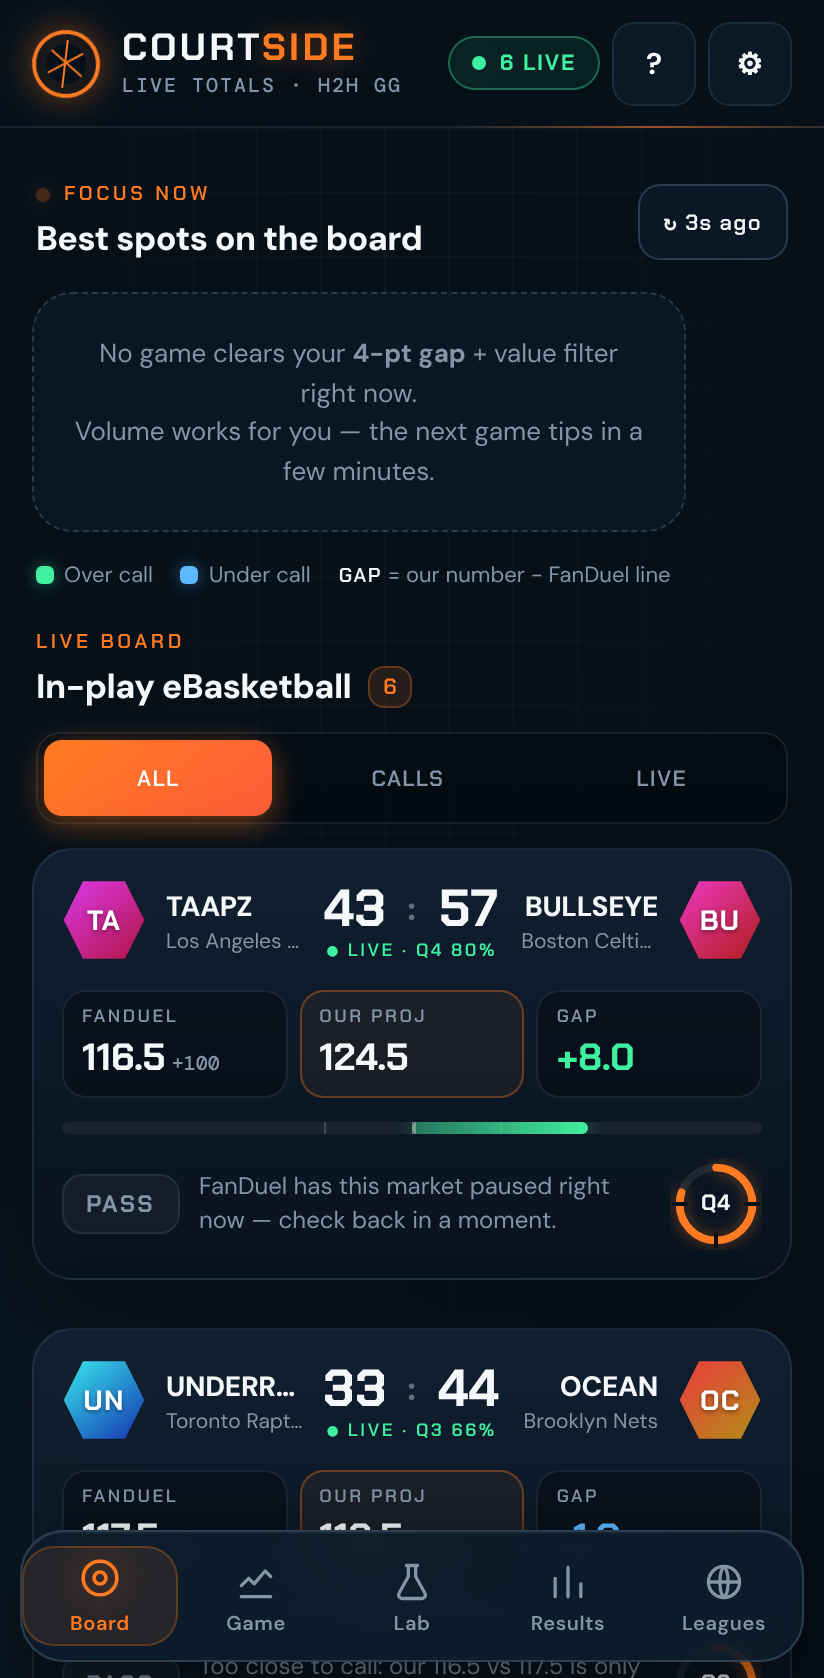
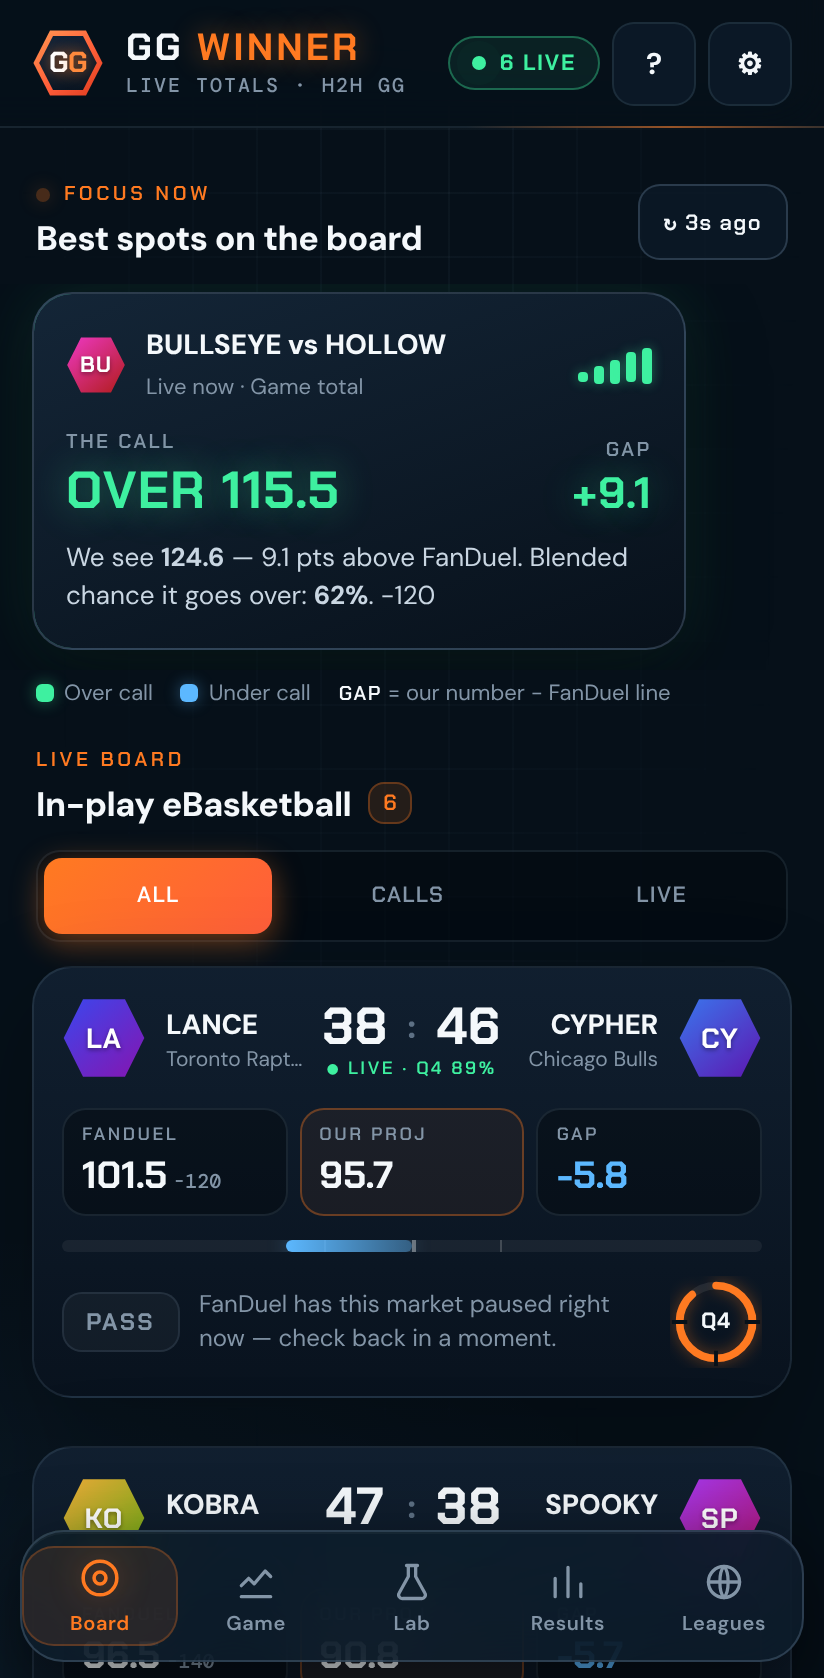
Rebrand to GG Winner
New name, GG hex logo and app icons (distinct from the CourtSide app),
manifest/install names, refreshed install-sheet screenshots, and the
Netlify site renamed to gg-winner.netlify.app. The Blobs store keeps its
original name so tracked games and graded results carry over.

Claude-Session: https://claude.ai/code/session_01ARni8sSaepoxgh9dy5PCBC

diff --git a/public/index.html b/public/index.html
@@ -4,12 +4,12 @@
   <meta charset="UTF-8" />
   <meta name="viewport" content="width=device-width, initial-scale=1, viewport-fit=cover" />
   <meta name="theme-color" content="#061019" />
-  <meta name="description" content="CourtSide Pace — live FanDuel eBasketball (H2H GG League) projections: game, 1st half, quarter and team totals vs the live line, in plain English." />
+  <meta name="description" content="GG Winner — live FanDuel eBasketball (H2H GG League) projections: game, 1st half, quarter and team totals vs the live line, in plain English." />
   <meta name="apple-mobile-web-app-capable" content="yes" />
   <meta name="mobile-web-app-capable" content="yes" />
   <meta name="apple-mobile-web-app-status-bar-style" content="black-translucent" />
-  <meta name="apple-mobile-web-app-title" content="CourtSide" />
-  <title>CourtSide Pace</title>
+  <meta name="apple-mobile-web-app-title" content="GG Winner" />
+  <title>GG Winner</title>
   <link rel="manifest" href="/manifest.webmanifest" />
   <link rel="icon" type="image/png" sizes="192x192" href="/icons/icon-192.png" />
   <link rel="apple-touch-icon" href="/icons/apple-touch-icon.png" />
@@ -23,9 +23,9 @@
   <div class="shell">
     <header class="topbar">
       <div class="brand-wrap">
-        <div class="ball-mark" aria-hidden="true"><i></i></div>
+        <div class="gg-mark" aria-hidden="true"><span>G<b>G</b></span></div>
         <div class="brand-text">
-          <div class="brand">COURT<span>SIDE</span></div>
+          <div class="brand">GG <span>WINNER</span></div>
           <div class="subbrand">Live Totals · H2H GG</div>
         </div>
       </div>
@@ -50,8 +50,8 @@
       <!-- BOARD -->
       <section class="view" id="view-board" data-view="board">
         <div id="installCard" class="install-card hidden">
-          <div class="ball-mark"><i></i></div>
-          <div class="ic-text"><b>Install CourtSide on your phone</b><span>Full-screen, one tap from your home screen, live numbers every few seconds.</span></div>
+          <div class="gg-mark"><span>G<b>G</b></span></div>
+          <div class="ic-text"><b>Install GG Winner on your phone</b><span>Full-screen, one tap from your home screen, live numbers every few seconds.</span></div>
           <div class="ic-actions"><button type="button" class="ghost-btn" id="installLater">Later</button><button type="button" class="cta" id="installGo">Install</button></div>
         </div>
         <div class="hud-head">
@@ -97,7 +97,7 @@
       <!-- GAME -->
       <section class="view hidden" id="view-game" data-view="game">
         <div id="gameEmpty" class="empty-state">
-          <div class="empty-orb"><div class="ball-mark big"><i></i></div></div>
+          <div class="empty-orb"><div class="gg-mark big"><span>G<b>G</b></span></div></div>
           <h2>Pick a game from the board</h2>
           <p>Tap any live match to see our projection for the game, 1st half, current quarter and team totals against FanDuel’s live lines.</p>
           <button class="cta" type="button" data-view-go="board">Open the board</button>
@@ -232,8 +232,8 @@
       <div class="ob-slides" id="obSlides">
         <section class="ob active">
           <div class="ob-art"><span class="ob-num">122.9</span><span class="ob-vs">vs</span><span class="ob-num dim">113.5</span></div>
-          <h3>We build our own number</h3>
-          <p>From 3 weeks of official H2H results: each gamer’s scoring, their team, head-to-head history — then we update it live as points go up.</p>
+          <h3>Welcome to GG Winner</h3>
+          <p>We build our own number from 3 weeks of official H2H results — each gamer’s scoring, their team, head-to-head history — then update it live as points go up.</p>
         </section>
         <section class="ob">
           <div class="ob-art"><span class="pill-big over">GAP +9.4</span></div>

diff --git a/public/styles.css b/public/styles.css
@@ -1,5 +1,5 @@
 /* ==========================================================================
-   CourtSide design system — gamer HUD edition
+   GG Winner — gamer HUD on the shared CourtSide design tokens
    Navy + court orange, DM Sans / DM Mono, Chakra Petch for HUD numbers.
    ========================================================================== */
 :root {
@@ -94,6 +94,14 @@ button { cursor: pointer; }
 .ball-mark::before, .ball-mark::after { content: ""; position: absolute; inset: 5px 14px; border-left: 1.5px solid var(--accent); transform: rotate(35deg); }
 .ball-mark::after { transform: rotate(-35deg); }
 .ball-mark i { position: absolute; left: 3px; right: 3px; top: 50%; border-top: 1.5px solid var(--accent); }
+.gg-mark { --s: 36px; width: var(--s); height: var(--s); flex: 0 0 var(--s); position: relative; display: grid; place-items: center;
+  clip-path: polygon(25% 5%, 75% 5%, 98% 50%, 75% 95%, 25% 95%, 2% 50%); background: linear-gradient(140deg, #ff9c55, #ff5e3a 55%, #d9361b);
+  filter: drop-shadow(0 0 10px var(--accent-glow)); }
+.gg-mark::before { content: ""; position: absolute; inset: 3px; clip-path: inherit; background: linear-gradient(160deg, #10233a, #08131e); }
+.gg-mark span { position: relative; font: 700 calc(var(--s) * .4)/1 var(--hud); letter-spacing: -.02em; color: #fff; text-shadow: 0 0 8px rgba(255, 122, 33, .8); }
+.gg-mark span b { color: #ff8a3d; }
+.gg-mark.big { --s: 72px; animation: float 4s ease-in-out infinite; }
+.gg-mark.big::before { inset: 5px; }
 .ball-mark.big { width: 64px; height: 64px; flex-basis: 64px; border-width: 3px; }
 .ball-mark.big::before, .ball-mark.big::after { inset: 9px 26px; border-left-width: 2.5px; }
 .ball-mark.big i { border-top-width: 2.5px; left: 5px; right: 5px; }
@@ -498,7 +506,7 @@ input[type=range]::-moz-range-thumb { width: 16px; height: 16px; border-radius: 
 }
 
 /* ---------- Android / Pixel ---------- */
-.install-card { display: grid; grid-template-columns: 34px 1fr; gap: 10px 12px; align-items: center; margin: 12px 0 4px; padding: 14px; border-radius: var(--r-lg);
+.install-card { display: grid; grid-template-columns: 36px 1fr; gap: 10px 12px; align-items: center; margin: 12px 0 4px; padding: 14px; border-radius: var(--r-lg);
   background: radial-gradient(320px 120px at 90% 0%, rgba(255, 122, 33, .22), transparent 70%), linear-gradient(160deg, rgba(20, 38, 56, .98), rgba(8, 17, 27, .98));
   border: 1px solid rgba(255, 122, 33, .35); box-shadow: 0 0 28px rgba(255, 122, 33, .12); animation: cardIn .5s var(--ease) both; }
 .install-card .ic-text b { display: block; font-size: 14px; }

diff --git a/public/app.js b/public/app.js
@@ -1,4 +1,4 @@
-/* CourtSide Pace — FanDuel eBasketball live totals (H2H GG League 4x5) */
+/* GG Winner — FanDuel eBasketball live totals (H2H GG League 4x5) */
 (() => {
   const $ = (id) => document.getElementById(id);
   const esc = (s) => String(s ?? '').replace(/[&<>"']/g, (c) => ({ '&': '&amp;', '<': '&lt;', '>': '&gt;', '"': '&quot;', "'": '&#39;' }[c]));
@@ -792,7 +792,7 @@
     window.addEventListener('appinstalled', () => {
       $('installCard').classList.add('hidden');
       $('installBtn').classList.add('hidden');
-      toast('CourtSide is on your home screen 🏀');
+      toast('GG Winner is on your home screen 🏀');
     });
     $('installBtn').onclick = install;
     $('installGo').onclick = install;

diff --git a/public/sw.js b/public/sw.js
@@ -1,5 +1,5 @@
-/* CourtSide Pace service worker: app shell offline, live data always from the network. */
-const VERSION = 'cs-pace-v2.4.0';
+/* GG Winner service worker: app shell offline, live data always from the network. */
+const VERSION = 'gg-winner-v3.0.0';
 const SHELL = ['/', '/index.html', '/styles.css', '/app.js', '/manifest.webmanifest', '/icons/icon-192.png', '/icons/icon-512.png'];
 
 self.addEventListener('install', (event) => {

diff --git a/src/feeds/h2h.js b/src/feeds/h2h.js
@@ -14,7 +14,7 @@ const cache = require('../cache');
 
 const BASE = 'https://api-h2h.cdn-hudstats.com/';
 const HEADERS = {
-  'User-Agent': 'Mozilla/5.0 (compatible; CourtSidePace/2.0)',
+  'User-Agent': 'Mozilla/5.0 (compatible; GGWinner/3.0)',
   Accept: 'application/json',
   Origin: 'https://h2hggl.com',
   Referer: 'https://h2hggl.com/',

diff --git a/src/feeds/fdClient.js b/src/feeds/fdClient.js
@@ -12,7 +12,7 @@
 const cache = require('../cache');
 
 const AK = process.env.FANDUEL_SB_AK || 'FhMFpcPWXMeyZxOx';
-const UA = 'Mozilla/5.0 (compatible; CourtSidePace/2.0)';
+const UA = 'Mozilla/5.0 (compatible; GGWinner/3.0)';
 const ORIGIN = 'https://sportsbook.fanduel.com';
 
 const STATES = [

diff --git a/src/api.js b/src/api.js
@@ -26,7 +26,7 @@ function parseQuarterStart(q) {
 const routes = [
   ['GET', /^\/health$/, async () => ({
     ok: true,
-    app: 'courtside-pace',
+    app: 'gg-winner',
     store: store.backend(),
     apiBasketball: apib.enabled(),
     fanduelLive: fdLive.enabled(),

diff --git a/src/store.js b/src/store.js
@@ -7,6 +7,7 @@
 const fs = require('fs');
 const path = require('path');
 
+// Store name kept from the first deploy so tracked games and graded results carry over.
 const STORE_NAME = 'courtside-eb';
 let blobStore = null;
 const memory = new Map();

diff --git a/README.md b/README.md
@@ -1,4 +1,6 @@
-# CourtSide Pace — FanDuel live totals
+# GG Winner — FanDuel live totals
+
+Live: **https://gg-winner.netlify.app** (installable on Android/iPhone).
 
 Live projections for **FanDuel eBasketball (H2H GG League, 4×5-minute quarters)**: game, 1st-half, quarter and team totals, priced against FanDuel’s live lines. There’s also a **Real leagues** tab (NBA, WNBA, NBL, EuroLeague, BBL, LKL and more) using the possession/pace model. Installable on your phone as an app (PWA), deployed on Netlify.
 
@@ -48,7 +50,7 @@ Quarter shares: Q1 25.5%, Q2 24.7%, Q3 24.3%, Q4 24.9%.
 
 - `netlify/functions/api.mjs` serves `/api/*`.
 - `netlify/functions/collector.mjs` runs **every 2 minutes**. It tracks every FanDuel eBasketball game, captures closing pregame lines, records calls at 0/25/50/75%, grades game and team totals from the final score (official H2H, or FanDuel’s own final if H2H is slow), back-fills 1st-half grades once the official quarter split lands, fetches quarter splits, rebuilds ratings hourly and re-fits the model weight.
-- State lives in **Netlify Blobs** (store `courtside-eb`).
+- State lives in **Netlify Blobs** (store `courtside-eb`, named before the rename and kept so tracked data carries over).
 - `data/seed-*.json` is bundled history, so a fresh deploy has ratings and profiles right away. Refresh it with `npm run seed`.
 - Env vars (optional): `COLLECTOR_ENABLED=0` pauses the collector. `FANDUEL_REGION` (default `NJ`) picks the FanDuel state host. `API_BASKETBALL_KEY` adds box stats for BBL/LKL/BCL/LNBP.
 
